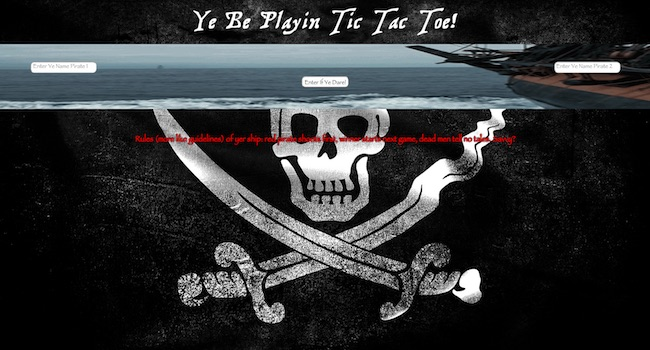
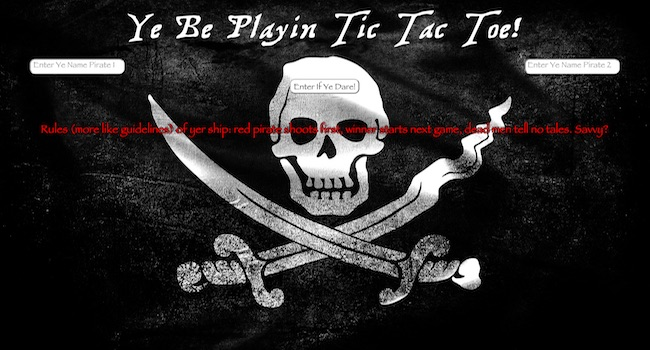
Changed contact and portfolio section - made changes to tic tac toe

diff --git a/index.html b/index.html
@@ -62,9 +62,6 @@
                         <a class="page-scroll" href="#portfolio" id="portfolioid">Portfolio</a>
                     </li>
                     <li>
-                        <a class="page-scroll" href="#social" id="socialid">Social</a>
-                    </li>
-                    <li>
                         <a class="page-scroll" href="#recommendations" id="recoid">Recommendations</a>
                     </li>
                     <li>
@@ -82,7 +79,7 @@
             <div class="header-content-inner">
                 <h1 id="main-title">amir for you</h1>
                 <hr>
-                <p id="main-description">-Full-Stack Developer-</p>
+                <p id="main-description">Full-Stack Developer</p>
                 <a href="#about" class="btn btn-primary btn-xl page-scroll">Find Out More</a>
             </div>
         </div>
@@ -92,9 +89,9 @@
         <div class="container">
             <div class="row">
                 <div class="col-lg-8 col-lg-offset-2 text-center">
-                    <h2 class="section-heading">Who am I?</h2>
+                    <h2 class="section-heading">Who Am I?</h2>
                     <hr class="light">
-                    <p class="text-faded">Currently gaining experience with Ruby, HTML/CSS, and Javascript in preparation for moving into a full-time junior web development role. Also gaining experience in JQuery and Rails frameworks, API's, and SQL. Resourceful, bilingual professional with additional experience in management, operations, handling sensitive materials, and providing after-hours support.</p>
+                    <p class="text-faded">Currently mastering skills in Ruby, JavaScript, HTML, and CSS and ready for employment as a full-time junior web developer. Also acquiring experience in JQuery and Rails frameworks, APIs, and SQL. Resourceful, bilingual professional with additional experience in management, operations, sales, and customer service.</p>
                     <a href="#skills" class="btn btn-default btn-xl">Tell me more!</a>
                 </div>
             </div>
@@ -105,7 +102,7 @@
         <div class="container">
             <div class="row">
                 <div class="col-lg-12 text-center">
-                    <h2 class="section-heading">At Your Service</h2>
+                    <h2 class="section-heading">Skills</h2>
                     <hr class="primary">
                 </div>
             </div>
@@ -157,7 +154,7 @@
                 <div class="col-lg-3 col-md-6 text-center">
                     <div class="service-box">
                         <i class="fa fa-exclamation" style="font-size: 34pt"></i>
-                        <h3>BDD/TDD-RSPEC</h3>
+                        <h3>BDD/TDD</h3>
                     </div>
                 </div>
             </div>
@@ -188,7 +185,7 @@
                         <div class="portfolio-box-caption">
                             <div class="portfolio-box-caption-content">
                                 <div class="project-category text-faded">
-                                    Full Ruby on Rails App with testing
+                                    Full Ruby on Rails App
                                 </div>
                                 <div class="project-name">
                                     Registration Application
@@ -213,13 +210,17 @@
                     </a>
                 </div>
                 <div class="col-lg-4 col-sm-6">
-                    <a href="#" class="portfolio-box">
+                    <a href="8ball/8ball.html" target="_blank" class="portfolio-box">
                         <img src="img/portfolio/4.jpg" class="img-responsive" alt="">
                         <div class="portfolio-box-caption">
                             <div class="portfolio-box-caption-content">
                                 <div class="project-category text-faded">
-                                    Category
+                                    Javascript/Jquery
                                 </div>
+                                <div class="project-name">
+                                    Magic 8 Ball
+                                </div>
+
                                 <div class="project-name">
                                     Project Name
                                 </div>
@@ -227,7 +228,7 @@
                         </div>
                     </a>
                 </div>
-                <div class="col-lg-4 col-sm-6">
+                <!-- <div class="col-lg-4 col-sm-6">
                     <a href="#" class="portfolio-box">
                         <img src="img/portfolio/5.jpg" class="img-responsive" alt="">
                         <div class="portfolio-box-caption">
@@ -256,28 +257,16 @@
                             </div>
                         </div>
                     </a>
-                </div>
+                </div> -->
             </div>
         </div>
     </section>
-
-  <!--timeline and twitter feed-->
-
-  <div class ="twitter" id="social" align="center">
-    <a href="http://www.github.com/anazemian" target="_blank"><i class="fa fa-github" id="gitlink"></i></a><hr>
-    <a href="http://www.twitter.com/amir_nazemian" target="_blank"><i class="fa fa-twitter" id="twitlink"></i></a><hr>
-    <a href="http://www.linkedin.com/in/anazemian" target="_blank"><i class="fa fa-linkedin" id="linkedlink"></i></a>
-
-  </div>
-
-  <!--end timeline and twitter-->
 
     <section id="recommendations">
         <div class="container">
             <div class="row">
                 <div class="col-lg-8 col-lg-offset-2 text-center">
                     <h2 class="section-heading">What People Are Saying</h2>
-                    <hr class="primary">
                     <p class="recos">"Amir helped us launch the San Diego Zipcar market and proved to be key performer and somebody I could always count on to get the job done. While tasked with overseeing our fleet operations, Amir also assisted us with marketing events, member issues, etc. – no job was too big or too small and his team work and willingness to jump in made him a valuable member of the Zipcar team.
                     <br>
                     Before leaving Zipcar to return to school, Amir was not only overseeing San Diego but he was taking on remote fleet operations outside of California as well; his organization, effective communication and ability to manage multiple operations allowed us to run a lean, efficient and effective fleet operation.
@@ -295,14 +284,14 @@
                 <div class="col-lg-4 text-center">
                     <p class="recos">"From the moment I met Amir (interviewing for a sales position at Wayfair), he could only be described as articulate, intelligent, hard working and driven. He has kept those traits throughout his tenure at Wayfair. He has since expanded his role at the company from an Inside Sales Rep to his current position as an Operations Analyst. His habitual quest to learn more in various departments makes him an asset to the company. Last, but not least, Amir's personality is infectious; and because of it, he consistently contributes to a cohesive as well as enjoyable work environment"</p>
                     <p>Michael J. Marquis - President and Co-Founder | HighPoint Outdoor Sales, Inc.</p><hr>
-                  </div>
-              <div class="col-lg-4 text-center">
-                <p class="recos">"Amir is a highly organized, goal oriented, independent, and hard working individual consistently ready to put all his energy to make sure that the task is done on time and done right. I’ve had the pleasure to work with him over the past couple of months, and he has been nothing short of supportive and helpful.
-                <br>
-                His upbeat attitude, strong work ethic, and quick problem solving skills are just some of the traits that really have helped us when facing challenges."</p>
-                <p>Shane McCorkle - Full Stack Development Student | LEARN</p>
-                <hr>
-              </div>
+                </div>
+                <div class="col-lg-4 text-center">
+                  <p class="recos">"Amir is a highly organized, goal oriented, independent, and hard working individual consistently ready to put all his energy to make sure that the task is done on time and done right. I’ve had the pleasure to work with him over the past couple of months, and he has been nothing short of supportive and helpful.
+                  <br>
+                  His upbeat attitude, strong work ethic, and quick problem solving skills are just some of the traits that really have helped us when facing challenges."</p>
+                  <p>Shane McCorkle - Full Stack Development Student | LEARN</p>
+                  <hr>
+                </div>
             </div>
         </div>
     </section>
@@ -311,21 +300,28 @@
         <div class="container" id="contactbox">
             <div class="row">
                 <div class="col-lg-8 col-lg-offset-2 text-center">
-                    <h2 class="section-heading">Drop me a line!</h2>
+                    <h2 class="section-heading">Contact Information</h2>
                     <hr class="primary">
                     <p>Ready to start your next project with me? That's great! Give me a call or send me an email and I will get back to you as soon as possible!</p>
                 </div>
                 <div class="col-lg-4 col-lg-offset-2 text-center">
                     <i class="fa fa-phone fa-3x wow bounceIn" id="phoneicon"></i>
-                    <p>phone goes here</p>
+                    <p>202-246-3154</p>
                 </div>
                 <div class="col-lg-4 text-center">
-                    <i class="fa fa-envelope-o fa-3x wow bounceIn" data-wow-delay=".1s" id="mailicon"></i>
-                    <p><a href="mailto:anazemi1@gmail.com" id="emaillink">E-mail</a></p>
+                    <p><a href="mailto:anazemi1@gmail.com" id="emaillink"><i class="fa fa-envelope-o fa-3x wow bounceIn" data-wow-delay=".1s" id="mailicon"></i><br>E-mail</a></p>
+                    <div class ="twitter" id="social" align="center">
+                      <a href="http://www.github.com/anazemian" target="_blank"><i class="fa fa-github" id="gitlink"></i></a>
+                      <a href="http://www.twitter.com/amir_nazemian" target="_blank"><i class="fa fa-twitter" id="twitlink"></i></a>
+                      <a href="http://www.linkedin.com/in/anazemian" target="_blank"><i class="fa fa-linkedin" id="linkedlink"></i></a>
+
+                    </div>
+
                 </div>
             </div>
         </div>
     </section>
+
 
     <!-- jQuery -->
     <script src="js/jquery.js"></script>

diff --git a/tic_tac_toe/tictactoe.html b/tic_tac_toe/tictactoe.html
@@ -11,7 +11,7 @@
   </head>
   <body>
     <h1>Ye Be Playin Tic Tac Toe!</h1>
-    <div class="jumbotron">
+    <!-- <div class="jumbotron"> -->
       <input type="text" placeholder="Enter Ye Name Pirate 1" id="pirate1input"/>
       <input type="text" placeholder="Enter Ye Name Pirate 2" id="pirate2input"/>
       <!-- Put jumbotron buttons in a text-center class to center them on the page-->
@@ -20,7 +20,7 @@
         <input type="button" id="startButton" value="Enter If Ye Dare!"/>
         <input type="button" id="resetButton" value="Reset"/>
       </div>
-    </div>
+    <!-- </div> -->
     <!-- gameResults updates as winners are declared -->
     <h2 id = "gameResults"></h2>
     <!-- Div to hold pirate 1 info, game board and pirate2 info -->

diff --git a/css/creative.css b/css/creative.css
@@ -314,6 +314,21 @@ header .header-content .header-content-inner p {
   background-color: #005b96;
 }
 
+#git{
+  background-color: #005b96;
+}
+
+#sourcecode{
+  color: #f05f40;
+  text-align: center;
+  font-size: 20pt;
+}
+
+#sourcelink{
+  color:#005b96;
+  font-size: 20pt;
+}
+
 .section-heading {
     margin-top: 0;
 }
@@ -403,17 +418,17 @@ header .header-content .header-content-inner p {
 
 #gitlink{
   color: white;
-  font-size: 34pt;
+  font-size: 54pt;
 }
 
 #twitlink{
   color: white;
-  font-size: 34pt;
+  font-size: 54pt;
 }
 
 #linkedlink{
   color: white;
-  font-size: 34pt;
+  font-size: 54pt;
 }
 
 .call-to-action h2 {
@@ -571,6 +586,7 @@ img::-moz-selection {
 
 .recos{
   font-weight: bold;
+  color: black;
 }
 
 #contact{

diff --git a/tic_tac_toe/tictactoe.css b/tic_tac_toe/tictactoe.css
@@ -41,13 +41,13 @@ footer {
 
 }
 
-.jumbotron{
+/*.jumbotron{
   position: relative;
   width:100%;
   height: 100%;
   background-size: 100% 100%;
   background-image: url("http://31.media.tumblr.com/e49977b6b17fcef407c976111dfc6de8/tumblr_msi0cwTWKI1r22d6wo1_500.gif");
-}
+}*/
 
 .text-center {
   margin: 10px
